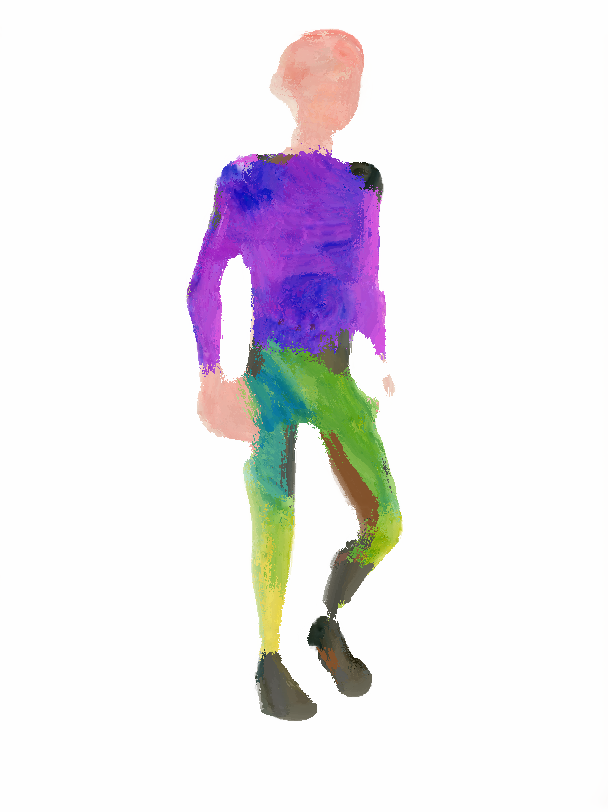
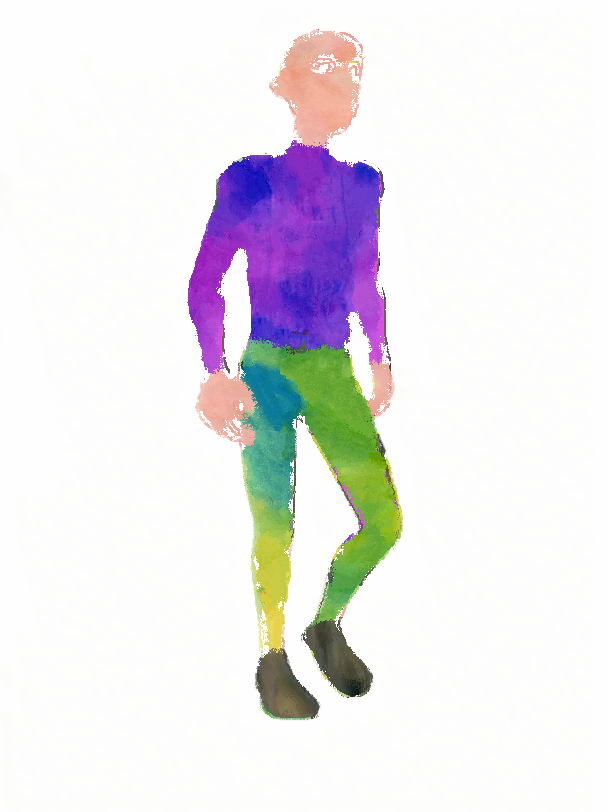
progress

Changed region(s): [[0.3125, 0.0616, 0.6875, 0.8929], [0.4688, 0.0308, 0.5938, 0.1539]]

diff --git a/cult.cpp b/cult.cpp
@@ -77,10 +77,28 @@ Image Cult::processFrame(const Image& frame, const Image& prevOutput){
     Image currentResult = framePyramid.back();
     Image output_frame = framePyramid.back(); // start at coarsest/most blurred (end of pyramid)
 
+    //dbg
+    std::vector<bool> edgeMask = Patchmatch::createEdgeMask(framePyramid[0]);
+    Image maskImg = framePyramid[0];
+    maskImg.pixels.resize(framePyramid[0].width * framePyramid[0].height);
+    for(int y = 0; y < framePyramid[0].height; y++){
+        for(int x = 0; x < framePyramid[0].width; x++){
+            RGB c;
+            c.r = edgeMask[y * framePyramid[0].width + x] ? 1.f : 0.f;
+            c.g = edgeMask[y * framePyramid[0].width + x] ? 1.f : 0.f;
+            c.b = edgeMask[y * framePyramid[0].width + x] ? 1.f : 0.f;
+            c.a = 255;
+            maskImg.pixels[y * framePyramid[0].width + x] = c;
+        }
+    }
+    ImageUtils::writeImage(maskImg, "../color-me-noisy/debug_pyramid/edge_mask.png");
+
     Image s_deformed = deformImage(m_sourceTexture);
 
     //REPLACE WITH BORDER
-    Image s_border = s_deformed;
+    QString boundaryPath = "../color-me-noisy/textures/strip.jpeg";
+    Image s_border = ImageUtils::readImage(boundaryPath, false);
+    // Image s_border = s_deformed;
 
     QString deformed_outPath = QString("../color-me-noisy/debug_pyramid/source_deformed.png");
     ImageUtils::writeImage(s_deformed, deformed_outPath);
@@ -107,7 +125,9 @@ Image Cult::processFrame(const Image& frame, const Image& prevOutput){
 
 //        Image& cur_target = framePyramid[level];
         Image& cur_source = sourcePyramid[level];
-        Image& cur_border = borderPyramid[level];
+        // Image& cur_border = borderPyramid[level];
+        Image& cur_border = s_border;
+
         if (level < (int)framePyramid.size() - 1) {
             currentResult = ImagePyramid::upsample(currentResult);
         }
@@ -122,7 +142,7 @@ Image Cult::processFrame(const Image& frame, const Image& prevOutput){
         }
 
         prevNNF = Patchmatch::run_patchmatch(currentResult, cur_source, cur_border, PATCH_RADIUS, PATCHMATCH_ITERATIONS, seedNNF);
-        output_frame = vote(currentResult, cur_source, cur_source, prevNNF);
+        output_frame = vote(currentResult, cur_source, cur_border, prevNNF);
         currentResult = output_frame;
 
         QString dbgPath = QString("../color-me-noisy/debug_pyramid/framepyramid_dbg_level_%1.png").arg(level);
@@ -145,30 +165,28 @@ Image Cult::patchmatch(const Image& target, const Image& source, const Image& bo
 }
 
 Image Cult::vote(const Image& target, const Image& source, const Image& boundary, NNF& nnf){
-
-
+    std::vector<bool> edgeMask = Patchmatch::createEdgeMask(target);
     Image processed_frame = target;
     processed_frame.pixels.resize(target.width * target.height);
 
     for(int y = 0; y < target.height; y++){
         for(int x = 0; x < target.width; x++){
-            std::vector<RGB> candidates;
+            bool isBoundary = edgeMask[y * target.width + x];
+            const Image& src = isBoundary ? boundary : source;
 
+            std::vector<RGB> candidates;
             for(int dy = -PATCH_RADIUS; dy <= PATCH_RADIUS; dy++){
                 for(int dx = -PATCH_RADIUS; dx <= PATCH_RADIUS; dx++){
                     int px = x + dx;
                     int py = y + dy;
+                    if(!Patchmatch::isValidPatch(target, px, py, PATCH_RADIUS)) continue;
 
-                    if(!Patchmatch::isValidPatch(target, px, py, PATCH_RADIUS))
-                        continue;
-
-                    Match match = nnf[py*target.width + px];
-
+                    Match match = nnf[py * target.width + px];
                     int sx = match.u - dx;
                     int sy = match.v - dy;
 
-                    if(sx >= 0 && sx < source.width && sy >= 0 && sy < source.height){
-                        candidates.push_back(ImageUtils::rgbAt(source, sx, sy));
+                    if(sx >= 0 && sx < src.width && sy >= 0 && sy < src.height){
+                        candidates.push_back(ImageUtils::rgbAt(src, sx, sy));
                     }
                 }
             }
@@ -180,9 +198,48 @@ Image Cult::vote(const Image& target, const Image& source, const Image& boundary
             }
         }
     }
-
     return processed_frame;
 }
+
+// Image Cult::vote(const Image& target, const Image& source, const Image& boundary, NNF& nnf){
+
+
+//     Image processed_frame = target;
+//     processed_frame.pixels.resize(target.width * target.height);
+
+//     for(int y = 0; y < target.height; y++){
+//         for(int x = 0; x < target.width; x++){
+//             std::vector<RGB> candidates;
+
+//             for(int dy = -PATCH_RADIUS; dy <= PATCH_RADIUS; dy++){
+//                 for(int dx = -PATCH_RADIUS; dx <= PATCH_RADIUS; dx++){
+//                     int px = x + dx;
+//                     int py = y + dy;
+
+//                     if(!Patchmatch::isValidPatch(target, px, py, PATCH_RADIUS))
+//                         continue;
+
+//                     Match match = nnf[py*target.width + px];
+
+//                     int sx = match.u - dx;
+//                     int sy = match.v - dy;
+
+//                     if(sx >= 0 && sx < source.width && sy >= 0 && sy < source.height){
+//                         candidates.push_back(ImageUtils::rgbAt(source, sx, sy));
+//                     }
+//                 }
+//             }
+
+//             if(!candidates.empty()){
+//                 processed_frame.pixels[y * target.width + x] = modeVote(candidates);
+//             } else {
+//                 processed_frame.pixels[y * target.width + x] = ImageUtils::rgbAt(target, x, y);
+//             }
+//         }
+//     }
+
+//     return processed_frame;
+// }
 
 RGB Cult::modeVote(const std::vector<RGB>& votes) {
     struct Bucket {

diff --git a/patchmatch.cpp b/patchmatch.cpp
@@ -21,8 +21,11 @@ NNF Patchmatch::run_patchmatch(const Image& target,
         if(i%2==0){ //Forward propogation
             for(int y = 0; y < target.height; y++){
                 for(int x = 0; x < target.width; x++){
-                    propogateForward(x, y, target, source, nnf, patchRadius);
-                    randomSearch(x, y, target, source, nnf, patchRadius);
+                    bool targetIsBoundary = edgeMask[y*target.width + x];
+                    const Image& src = targetIsBoundary ? boundary : source;
+
+                    propogateForward(x, y, target, src, nnf, patchRadius);
+                    randomSearch(x, y, target, src, nnf, patchRadius);
 
                     //std::cout<<"Matching pixel "<<x + y*target.width<<std::endl;
                 }
@@ -30,8 +33,11 @@ NNF Patchmatch::run_patchmatch(const Image& target,
         }else{ //Backward propogation
             for(int y = 0; y < target.height; y++){
                 for(int x = 0; x < target.width; x++){
-                    propogateBackward(x, y, target, source, nnf, patchRadius);
-                    randomSearch(x, y, target, source, nnf, patchRadius);
+                    bool targetIsBoundary = edgeMask[y*target.width + x];
+                    const Image& src = targetIsBoundary ? boundary : source;
+
+                    propogateBackward(x, y, target, src, nnf, patchRadius);
+                    randomSearch(x, y, target, src, nnf, patchRadius);
 
                     //std::cout<<"Matching pixel "<<x + y*target.width<<std::endl;
                 }
@@ -320,34 +326,34 @@ NNF Patchmatch::upscaleNNF(const NNF& nnf, int oldWidth, int oldHeight,
     return upsampled;
 }
 
+
 std::vector<bool> Patchmatch::createEdgeMask(const Image& target){
-    std::vector<bool> edgeMask(target.height*target.width, false);
+    std::vector<bool> edgeMask(target.height * target.width, false);
+    float WHITE_THRESHOLD = 0.78f;
+    int BOUNDARY_DIST = 2;
 
-    int WHITE_THRESHOLD = 200;
-    int BOUNDARY_DIST = 1;
-
-    for(int y = 1; y < target.height-1; y++){
-        for(int x = 1; x < target.width-1; x++){
+    for(int y = 0; y < target.height; y++){
+        for(int x = 0; x < target.width; x++){
             RGB color = ImageUtils::rgbAt(target, x, y);
             bool isWhite = (color.r >= WHITE_THRESHOLD)
                            && (color.g >= WHITE_THRESHOLD)
                            && (color.b >= WHITE_THRESHOLD);
 
-            bool hasNeighbor = false;
-
-            for(int dy = -BOUNDARY_DIST; dy < BOUNDARY_DIST; dy++){
-                for(int dx = - BOUNDARY_DIST; dx < BOUNDARY_DIST; dx++){
-                    RGB n = ImageUtils::rgbAt(target, dx, dy);
-                    if(n.r < WHITE_THRESHOLD && n.g < WHITE_THRESHOLD && n.b < WHITE_THRESHOLD)
-                        hasNeighbor = true;
+            if(!isWhite){
+                bool hasWhiteNeighbor = false;
+                for(int dy = -BOUNDARY_DIST; dy <= BOUNDARY_DIST && !hasWhiteNeighbor; dy++){
+                    for(int dx = -BOUNDARY_DIST; dx <= BOUNDARY_DIST && !hasWhiteNeighbor; dx++){
+                        int nx = std::clamp(x+dx, 0, target.width-1);
+                        int ny = std::clamp(y+dy, 0, target.height-1);
+                        RGB n = ImageUtils::rgbAt(target, nx, ny);
+                        if(n.r >= WHITE_THRESHOLD && n.g >= WHITE_THRESHOLD && n.b >= WHITE_THRESHOLD)
+                            hasWhiteNeighbor = true;
+                    }
                 }
+                edgeMask[y * target.width + x] = hasWhiteNeighbor;
             }
-
-            edgeMask[y*target.width + x] = isWhite && hasNeighbor || !isWhite && hasNeighbor;
-
         }
     }
-
     return edgeMask;
 }
 

diff --git a/mainwindow.h b/mainwindow.h
@@ -20,7 +20,7 @@ public:
 
 private:
     QString dirpath = "../color-me-noisy/output_frames";
-    QString m_texturePath = "../color-me-noisy/textures/texture_new.png"; //Path to image texture
+    QString m_texturePath = "../color-me-noisy/textures/texture_resized.png"; //Path to image texture
     //QString m_texturePath = "../color-me-noisy/textures/S.png"; //Path to image texture
     QString m_videoPath = "../color-me-noisy/source_videos/walker.mov";
     QStringList m_framePaths; // sorted list of image file paths

diff --git a/patchmatch.h b/patchmatch.h
@@ -25,6 +25,8 @@ public:
     static NNF upscaleNNF(const NNF& nnf, int oldWidth, int oldHeight,
                                         int newWidth, int newHeight);
 
+    static std::vector<bool> createEdgeMask(const Image& target);
+
 private:
     static std::mt19937 rng;
 
@@ -50,7 +52,7 @@ private:
                              const Image& source,
                              NNF& nnf,
                              int patchRadius);
-    static std::vector<bool> createEdgeMask(const Image& target);
+
 
 };
 

diff --git a/cult.h b/cult.h
@@ -41,7 +41,7 @@ private:
     RGB modeVote(const std::vector<RGB>& votes);
     Image extractSourceEdge(const Image& texture);
     
-    const int PATCH_RADIUS = 8;
+    const int PATCH_RADIUS = 3;
     const int PATCHMATCH_ITERATIONS = 4;
     const int WEXLER_ITERS = 2;
     const float FILTER_STRENGTH = 0.5;
